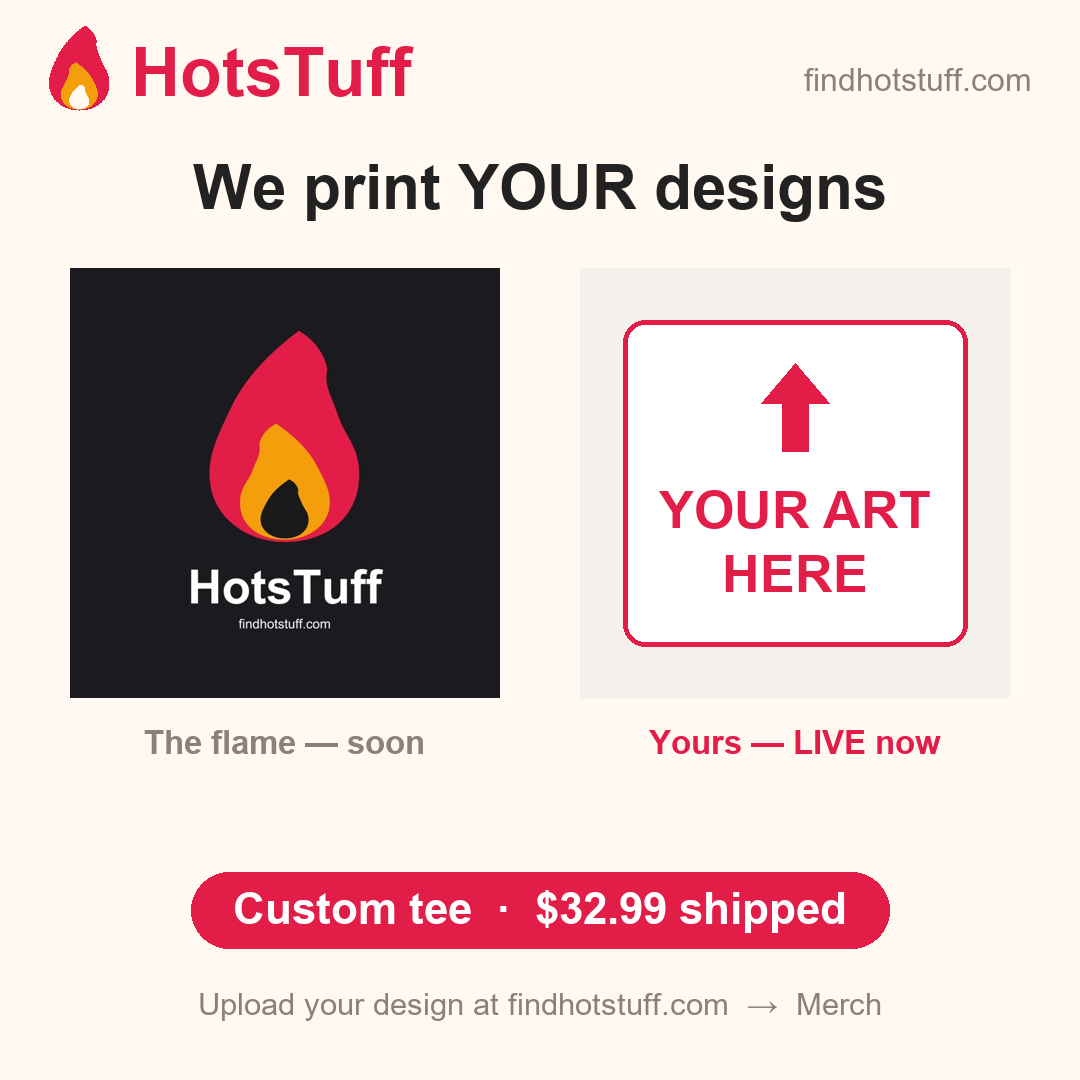
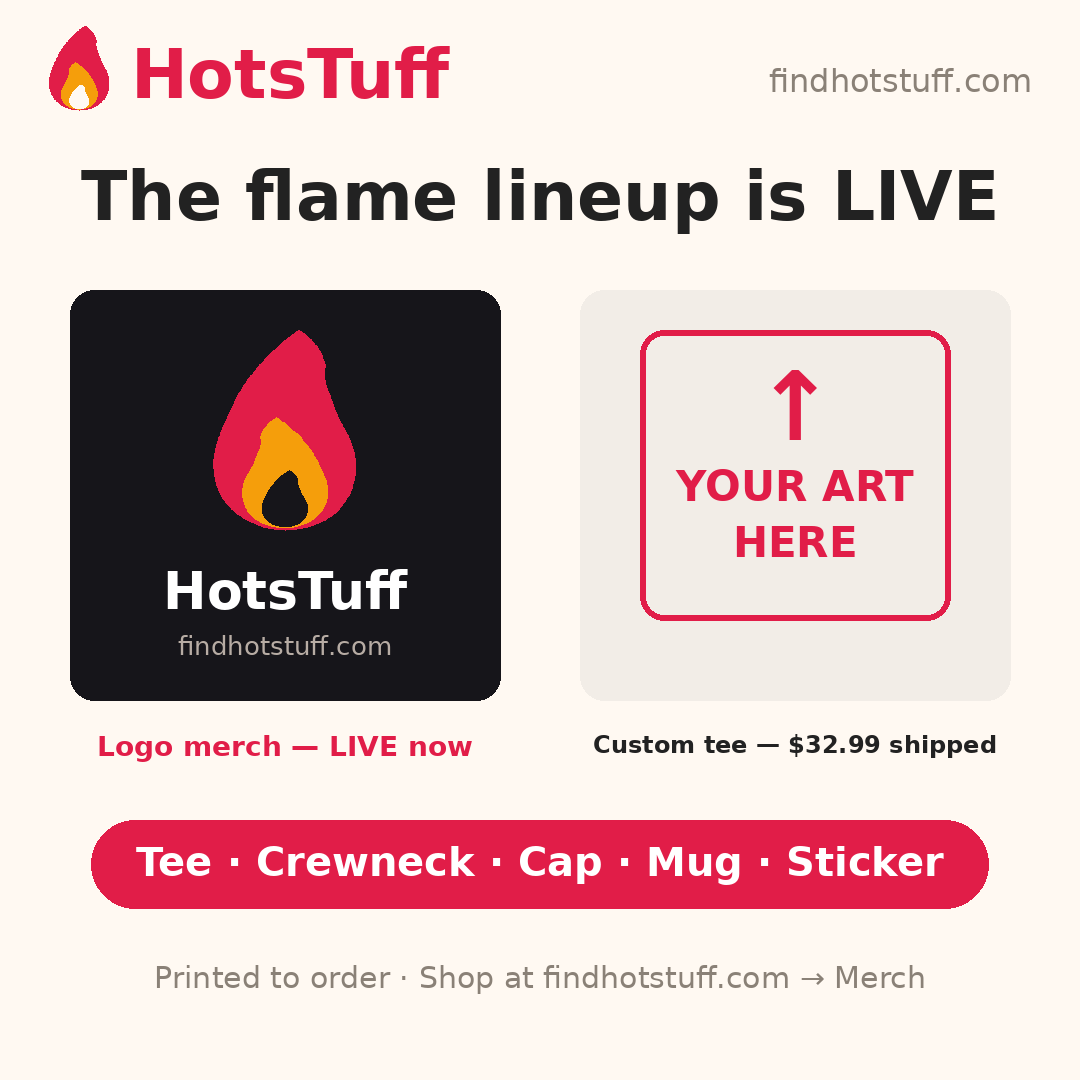
Merch launch: pop-up store live — copy, card, and rotation slots
The Printify pop-up store passed verification and all five products now
transact, so the launch commit lands:

- index.html/i18n.js: merch-note scopes the free-shipping promise —
  logo merch shipping is calculated at the print partner's checkout
- README: pop-up store is live (Printify hosts checkout/fulfillment/
  support); Known limitations gains the Merchant-of-Record tax note
- post_merch_tweet.py: live announcement copy replacing the July
  'drops soon' tease, linking findhotstuff.com/?ref=x#merch
- make_merch_card.py (new): regenerable launch ad card in the house
  style; marketing/merch-tweet-card.png regenerated ('soon' removed)
- make_pinterest_pins.py: pin 10 of every cycle is now a standing merch
  pin (local asset, no download), linking ?ref=pin#merch
- generate_posts.py: standing merch line in the X section each cycle;
  marketing/latest-posts.md regenerated
- sw.js VERSION v12 for the index.html change

Merch-tweet workflow is NOT auto-fired by this push (it only triggers
on its own .yml path) — dispatch it manually once the test order clears.

Claude-Session: https://claude.ai/code/session_015VnhFAkDhVET7vSifdkad7

diff --git a/i18n.js b/i18n.js
@@ -35,7 +35,7 @@
     "merch-sub": "Affichez la flamme — la gamme complète est <b>en ligne</b> : t-shirt, coton ouaté, casquette brodée, tasse et autocollant. Ou téléversez votre propre design et on le met sur un t-shirt.",
     "merch-sticker-price": "À partir de 3,49 $",
     "merch-custom-title": "T-shirt à votre design — 32,99 $",
-    "merch-note": "T-shirts personnalisés : choisissez taille et couleur au paiement — on imprime votre visuel et on le livre à votre porte. Téléversez seulement des visuels que vous avez le droit d'imprimer.<br>\n      Le merch à logo part de notre partenaire d'impression — voyez la <a href=\"https://hotstuff-store.printify.me\" target=\"_blank\" rel=\"noopener\">boutique merch HotsTuff</a> complète.",
+    "merch-note": "T-shirts personnalisés : choisissez taille et couleur au paiement — on imprime votre visuel et on le livre à votre porte. Téléversez seulement des visuels que vous avez le droit d'imprimer.<br>\n      Le merch à logo part de notre partenaire d'impression — livraison calculée à leur paiement. Voyez la <a href=\"https://hotstuff-store.printify.me\" target=\"_blank\" rel=\"noopener\">boutique merch HotsTuff</a> complète.",
     "how-title": "Comment le catalogue reste frais",
     "how-sub": "Chaque fiche ici, c'est des données, pas du code — c'est ça qui rend la rotation facile.",
     "how-1-title": "Un signal de tendance entre",

diff --git a/index.html b/index.html
@@ -142,7 +142,7 @@
         </div>
       </div>
       <p class="merch-note" data-i18n="merch-note">Custom tees: pick your size &amp; colour at checkout — we print your art and ship it to your door. Only upload art you have the right to print.<br>
-      Logo merch ships from our print partner — browse the full <a href="https://hotstuff-store.printify.me" target="_blank" rel="noopener">HotsTuff merch store</a>.</p>
+      Logo merch ships from our print partner — shipping calculated at their checkout. Browse the full <a href="https://hotstuff-store.printify.me" target="_blank" rel="noopener">HotsTuff merch store</a>.</p>
       </div>
     </section>
 

diff --git a/sw.js b/sw.js
@@ -13,7 +13,7 @@
  * installed apps pick the new shell up on their next visit.
  */
 
-const VERSION = "v11";
+const VERSION = "v12";
 const SHELL_CACHE = `hotstuff-shell-${VERSION}`;
 const RUNTIME_CACHE = `hotstuff-runtime-${VERSION}`;
 const IMAGE_CACHE = `hotstuff-images-${VERSION}`;

diff --git a/make_pinterest_pins.py b/make_pinterest_pins.py
@@ -1,8 +1,10 @@
 """
 Pinterest pin pack: 1000x1500 (2:3) product pins from the live catalog, in
 the HotsTuff flame identity. Picks top trending products (max 2 per category
-for variety), renders a pin for each, and writes pins.md with ready-to-paste
-titles, descriptions, and the destination link for each upload.
+for variety), renders a pin for each — plus one standing merch pin every
+cycle so the pop-up store gets re-marketed for free — and writes pins.md
+with ready-to-paste titles, descriptions, and the destination link for each
+upload.
 
 Output: marketing/pinterest/pin-N.png + pins.md
 
@@ -22,6 +24,19 @@ PIN_COUNT = 10
 SITE = "findhotstuff.com"
 INK_L, MUTED = "#f7f2ee", "#a3958f"
 
+# Standing merch slot: the last pin of every pack points at the live Printify
+# pop-up lineup (via the site's #merch section, so the ?ref survives).
+MERCH_PIN = {
+    "_merch": True,
+    "name": "HotsTuff Flame Tee",
+    "price": "24.99",
+    "image": str(HERE / "assets" / "merch" / "tee-dark.jpg"),
+    "description": ("The HotsTuff flame on a classic heavyweight cotton tee — "
+                    "official merch, printed to order. Full lineup: tee, "
+                    "crewneck, embroidered cap, mug and sticker."),
+    "category": "Merch",
+}
+
 
 def pick_products():
     ps = json.loads((HERE / "products.json").read_text())
@@ -36,7 +51,7 @@ def pick_products():
         per_cat[cat] = per_cat.get(cat, 0) + 1
         seen_names.add(name)
         picked.append(p)
-        if len(picked) == PIN_COUNT:
+        if len(picked) == PIN_COUNT - 1:  # last slot is the standing merch pin
             break
     return picked
 
@@ -46,9 +61,12 @@ def build_pin(p, n):
     import requests
     from PIL import Image, ImageDraw
 
-    resp = requests.get(p["image"], timeout=25)
-    resp.raise_for_status()
-    photo = Image.open(io.BytesIO(resp.content)).convert("RGB")
+    if p.get("_merch"):  # merch photo ships in the repo, no download needed
+        photo = Image.open(p["image"]).convert("RGB")
+    else:
+        resp = requests.get(p["image"], timeout=25)
+        resp.raise_for_status()
+        photo = Image.open(io.BytesIO(resp.content)).convert("RGB")
 
     img = Image.new("RGB", (W, H), BG)
     d = ImageDraw.Draw(img)
@@ -69,7 +87,7 @@ def build_pin(p, n):
                       card[1] + (card[3] - card[1] - photo.height) // 2))
 
     # name (up to 2 centered lines)
-    name = slide_name(p)
+    name = p["name"] if p.get("_merch") else slide_name(p)
     nf = _font(56, True)
     words, lines, cur = name.split(), [], ""
     for w_ in words:
@@ -98,7 +116,8 @@ def build_pin(p, n):
     # footer
     d.text(((W - d.textlength(SITE, font=_font(44, True))) // 2, H - 130),
            SITE, font=_font(44, True), fill=AMBER)
-    tail = "new drops every 3 days · free shipping"
+    tail = ("official merch · printed to order" if p.get("_merch")
+            else "new drops every 3 days · free shipping")
     d.text(((W - d.textlength(tail, font=_font(30, False))) // 2, H - 68),
            tail, font=_font(30, False), fill=MUTED)
 
@@ -112,7 +131,7 @@ def main():
     # a product whose photo fails this cycle can't leave a stale image behind
     for old in OUT.glob("pin-*.png"):
         old.unlink()
-    picked = pick_products()
+    picked = pick_products() + [MERCH_PIN]
     entries = []
     for i, p in enumerate(picked, 1):
         try:
@@ -120,13 +139,21 @@ def main():
         except Exception as exc:  # noqa: BLE001 - skip broken photos, keep the pack
             print(f"pin {i} skipped ({p.get('name', '?')[:30]}): {exc}")
             continue
-        entries.append(
-            f"## pin-{i}.png\n"
-            f"- **Title:** {name} — Trending Now\n"
-            f"- **Description:** {p.get('description', '')} Only ${p['price']} at "
-            f"HotsTuff — a fresh drop of trending finds every 3 days, free shipping. "
-            f"#{p.get('category', 'trending').replace(' ', '').lower()} #trendingproducts #onlinefinds\n"
-            f"- **Link:** https://findhotstuff.com/?ref=pin\n")
+        if p.get("_merch"):
+            entries.append(
+                f"## pin-{i}.png\n"
+                f"- **Title:** {name} — Official HotsTuff Merch\n"
+                f"- **Description:** {p['description']} ${p['price']}, shipping "
+                f"calculated at checkout. #merch #printondemand #trendingproducts\n"
+                f"- **Link:** https://findhotstuff.com/?ref=pin#merch\n")
+        else:
+            entries.append(
+                f"## pin-{i}.png\n"
+                f"- **Title:** {name} — Trending Now\n"
+                f"- **Description:** {p.get('description', '')} Only ${p['price']} at "
+                f"HotsTuff — a fresh drop of trending finds every 3 days, free shipping. "
+                f"#{p.get('category', 'trending').replace(' ', '').lower()} #trendingproducts #onlinefinds\n"
+                f"- **Link:** https://findhotstuff.com/?ref=pin\n")
         print(f"pin-{i}.png — {name} (${p['price']})")
     (OUT / "pins.md").write_text(
         "# Pinterest upload pack\n\n_Upload each pin with its title, description, "

diff --git a/make_merch_card.py b/make_merch_card.py
@@ -1,0 +1,75 @@
+"""Regenerates marketing/merch-tweet-card.png — the ad card attached to the
+one-off merch showcase tweet (post_merch_tweet.py).
+
+Launch edition: the Printify pop-up store is live, so the card announces the
+full logo lineup alongside the custom-tee upload flow.
+
+Usage: python make_merch_card.py
+"""
+from pathlib import Path
+
+from tweet_media import ACCENT, BG, INK, MUTED, SITE, _fit_text, _font, draw_flame
+
+HERE = Path(__file__).parent
+OUT = HERE / "marketing" / "merch-tweet-card.png"
+CARD = 1080
+DARK = "#16151a"
+PANEL = "#f2ede7"
+
+
+def main():
+    from PIL import Image, ImageDraw
+
+    img = Image.new("RGB", (CARD, CARD), BG)
+    d = ImageDraw.Draw(img)
+
+    def centered(text, font, cx, y, fill):
+        d.text((cx - d.textlength(text, font=font) / 2, y), text, font=font, fill=fill)
+
+    # header: flame + wordmark left, site right (house style)
+    fw = draw_flame(d, 44, 26, 84)
+    d.text((44 + fw + 16, 34), "HotsTuff", font=_font(68, True), fill=ACCENT)
+    site_font = _font(32)
+    d.text((CARD - 48 - d.textlength(SITE, font=site_font), 62),
+           SITE, font=site_font, fill=MUTED)
+
+    headline, hf = _fit_text(d, "The flame lineup is LIVE", 76, True, CARD - 120)
+    centered(headline, hf, CARD // 2, 156, INK)
+
+    # left panel: the logo tile (dark, like the tee)
+    d.rounded_rectangle((70, 290, 500, 700), radius=24, fill=DARK)
+    flame_h = 200
+    draw_flame(d, 285 - (flame_h * 0.84) / 2, 330, flame_h, core=DARK)
+    centered("HotsTuff", _font(52, True), 285, 560, "#ffffff")
+    centered(SITE, _font(26), 285, 630, "#b7aca4")
+
+    # right panel: the upload-your-art flow
+    d.rounded_rectangle((580, 290, 1010, 700), radius=24, fill=PANEL)
+    d.rounded_rectangle((640, 330, 950, 620), radius=24, outline=ACCENT, width=6)
+    centered("↑", _font(96, True), 795, 350, ACCENT)
+    art, af = _fit_text(d, "YOUR ART", 54, True, 250)
+    centered(art, af, 795, 462, ACCENT)
+    centered("HERE", af, 795, 462 + af.size + 14, ACCENT)
+
+    # captions: both sides are live now
+    cap, cf = _fit_text(d, "Logo merch — LIVE now", 40, True, 420)
+    centered(cap, cf, 285, 730, ACCENT)
+    cap, cf = _fit_text(d, "Custom tee — $32.99 shipped", 40, True, 420)
+    centered(cap, cf, 795, 730, INK)
+
+    # lineup pill
+    lineup, lf = _fit_text(d, "Tee · Crewneck · Cap · Mug · Sticker", 44, True, CARD - 200)
+    pw = d.textlength(lineup, font=lf)
+    pill = ((CARD - pw) // 2 - 45, 820, (CARD + pw) // 2 + 45, 908)
+    d.rounded_rectangle(pill, radius=44, fill=ACCENT)
+    centered(lineup, lf, CARD // 2, 838, "#ffffff")
+
+    foot, ff = _fit_text(d, "Printed to order · Shop at findhotstuff.com → Merch", 30, False, CARD - 120)
+    centered(foot, ff, CARD // 2, 960, MUTED)
+
+    img.save(OUT)
+    print(f"wrote {OUT}")
+
+
+if __name__ == "__main__":
+    main()

diff --git a/post_merch_tweet.py b/post_merch_tweet.py
@@ -12,11 +12,13 @@ CARD = HERE / "marketing" / "merch-tweet-card.png"
 RESULT = HERE / "marketing" / "merch-tweet-result.txt"
 CREDS = ["X_API_KEY", "X_API_SECRET", "X_ACCESS_TOKEN", "X_ACCESS_TOKEN_SECRET"]
 
-# Ad-manager approved 2026-07-25 (primary draft).
+# Launch copy 2026-08-06 — pop-up store live (replaces the ad-manager-approved
+# July "drops soon" tease).
 TWEET = (
-    "Your art. Your tee. \U0001F525 Upload any design at findhotstuff.com and "
-    "we'll print it + ship it to your door — $32.99, shipping included. "
-    "Rather rep the flame? HotsTuff logo merch drops soon."
+    "The flame drop is LIVE \U0001F525 HotsTuff logo tee, crewneck, embroidered "
+    "cap, mug & sticker — printed to order. Or upload your own art and we'll "
+    "put it on a tee for $32.99, shipping included. "
+    "https://findhotstuff.com/?ref=x#merch"
 )
 
 

diff --git a/generate_posts.py b/generate_posts.py
@@ -189,6 +189,16 @@ def build():
     for p in ranked:
         L.append(f"> {twitter_post(p, p['_ad'])}\n")
 
+    L.append(
+        "\n**Standing merch slot — post once per cycle** _(append `#merch` "
+        "after the tagged link so it lands on the merch section):_\n"
+    )
+    L.append(
+        "> Rep the flame \U0001F525 Official HotsTuff merch is live — tee, "
+        "crewneck, embroidered cap, mug & sticker, printed to order.\n"
+        "> [LINK]#merch #merch #printondemand\n"
+    )
+
     L.append("\n---\n\n## 📘 Facebook — top picks (attach the product photo)\n")
     for p in heroes:
         L.append(f"**{p['_ad']} — {price(p)}**\n")

diff --git a/.claude/council/DECISIONS.md b/.claude/council/DECISIONS.md
@@ -23,4 +23,5 @@ Format per entry:
 - Right Hand's call: GO-IF — finish the launch this month: publish the five products and complete Stripe payout verification in Printify, place one real test order (the sticker), and land the repo fix commit (merch click instrumentation, ?ref-tagged links via findhotstuff.com/#merch, sticker price sync, README update + Merchant-of-Record tax note, tweet copy, sw.js VERSION bump, standing merch slots in rotation packs) BEFORE firing any announcement. Hard fallback: if Printify can't publish in August, revert the "live now" copy immediately.
 - Matthew's decision: GO (2026-08-06) — purchase test already cleared; launch-prep prompt saved to `.claude/prompts/printify-launch-prep.md`; announcement still gated on product pages verifying purchasable + wearable sample before the full blast
 - Next moves: run the launch-prep prompt, verify the 5 product pages transact (they showed "coming soon" on Aug 6 checks), fire merch-tweet workflow_dispatch when green, hold 4-channel blast until sample passes
+- Update (2026-08-06, later): STORE IS LIVE — Matthew completed Stripe verification and all five product pages now show Add to Cart. Launch commit landed: shipping carve-out (EN/FR), README flip + Merchant-of-Record note, live tweet copy + regenerated card (new `make_merch_card.py` generator), standing merch slots in the Pinterest and X packs, sw.js v12. Remaining: Matthew's $3.49 sticker test order, fire the merch-tweet workflow_dispatch, tee sample before the full multi-channel blast, revoke the Printify API token.
 - Update (2026-08-06, via Printify API): all five products are correct product-side — visible, unlocked, priced, variants enabled (tee has Black+White, cap has Black/Royal/Grey; sticker really is from $3.49, so the site copy needs no price fix). The sole blocker is store-level: the Pop-Up Store sits in "coming soon" until payout setup (Stripe identity/bank verification) is completed in the Printify dashboard — owner-only (KYC). After that: sticker test order, then the remaining launch commit (free-shipping carve-out, README + Merchant-of-Record note, live tweet copy, rotation pack slots).

diff --git a/README.md b/README.md
@@ -188,8 +188,10 @@ custom_fields). **Fulfillment is manual:** open the `/orders` dashboard — cust
 orders show a "customer design file" link (token-protected download). Download
 the art, create the product in Printify (or any print service) with the
 customer's size/colour, and ship to the address shown. Price clears worst-case
-POD base + shipping + Stripe fees. Logo-merch tiles are "Coming soon" until the
-Printify pop-up store is live.
+POD base + shipping + Stripe fees. Logo merch is sold through the live Printify
+pop-up store (hotstuff-store.printify.me) — Printify hosts checkout, production,
+shipping, and end-customer support for those orders. The merch tweet's ad card
+is regenerated with `python make_merch_card.py`.
 
 ### Known limitations
 - Only ships to the US (`shipping_address_collection` in the Worker).
@@ -198,6 +200,10 @@ Printify pop-up store is live.
   order call will fail (logged in `ORDERS_KV`, not currently surfaced back
   to the customer or you — check KV or Worker logs periodically for now).
 - No refund automation — refunds are manual via the Stripe dashboard.
+- Pop-up merch sales (Printify store): the owner is the Merchant of Record —
+  Printify does not collect or remit sales tax on those orders. Shipping is
+  charged at Printify's checkout, so the site's free-shipping promise is
+  scoped to main-store orders (see the merch-section note).
 
 ## The decision council (Claude Code)
 

diff --git a/marketing/latest-posts.md b/marketing/latest-posts.md
@@ -1,6 +1,6 @@
 # HotsTuff — This Cycle's Posts (auto-generated)
 
-_Generated 2026-08-05 from the current lineup (120 products). Replace `[LINK]` with the tagged link for wherever you post, so GoatCounter can attribute the traffic:_ **https://findhotstuff.com/?ref=x** _(X)_, **https://findhotstuff.com/?ref=fb** _(Facebook)_, **https://findhotstuff.com/?ref=tt** _(TikTok)_
+_Generated 2026-08-06 from the current lineup (120 products). Replace `[LINK]` with the tagged link for wherever you post, so GoatCounter can attribute the traffic:_ **https://findhotstuff.com/?ref=x** _(X)_, **https://findhotstuff.com/?ref=fb** _(Facebook)_, **https://findhotstuff.com/?ref=tt** _(TikTok)_
 
 > Tone: upbeat + clean on Twitter/Facebook, fun + casual on TikTok. Post these over the next ~3 days (until the catalog rotates and this file updates). Stagger times, reply to comments. Shipping is ~1–3 weeks — never promise faster.
 
@@ -488,6 +488,12 @@ Elecpow Bike Alarm Remote — just $24.99 at HotsTuff 🔥
 > Trending right now 🛍
 Backless Bra Invisible Bralette — just $13.99 at HotsTuff 🔥
 [LINK] #trending #tiktokmademebuyit
+
+
+**Standing merch slot — post once per cycle** _(append `#merch` after the tagged link so it lands on the merch section):_
+
+> Rep the flame 🔥 Official HotsTuff merch is live — tee, crewneck, embroidered cap, mug & sticker, printed to order.
+> [LINK]#merch #merch #printondemand
 
 
 ---

diff --git a/.claude/prompts/printify-launch-prep.md b/.claude/prompts/printify-launch-prep.md
@@ -1,5 +1,8 @@
 # Printify merch launch prep — repo-side commit
 
+> **Status: EXECUTED 2026-08-06.** Store verified live (all five products
+> transact), launch commit landed. Kept for reference — don't re-run blindly.
+
 Paste this into a Claude Code session in the hotstuff repo:
 
 ---
